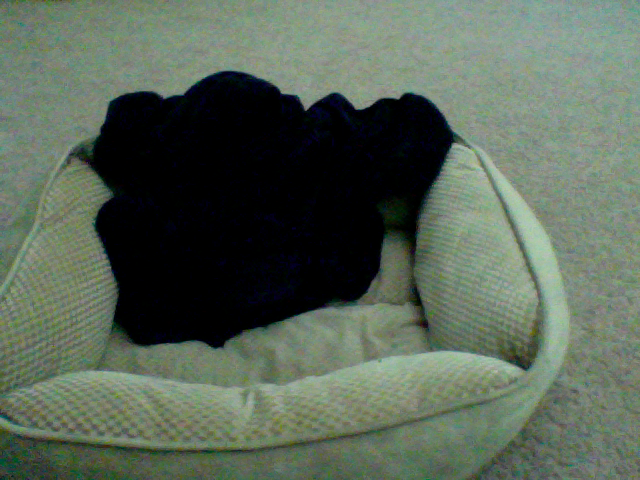
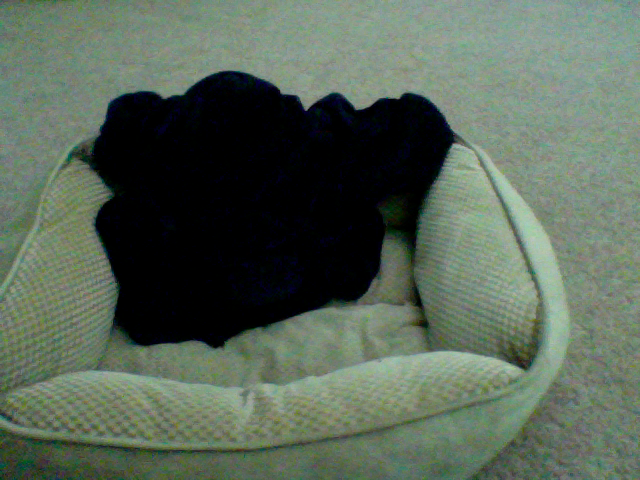
update at Month05Day08Time14:45

diff --git a/index.html b/index.html
@@ -40,7 +40,7 @@
       <div class="row">
         <div class="col-md-4">
 	<p>This picture was updated at Month05Day08Time14:45</p>
-		<img src="5_pic.png" />
+		<img src="4_pic.png" />
         </div>
       </div>
 
